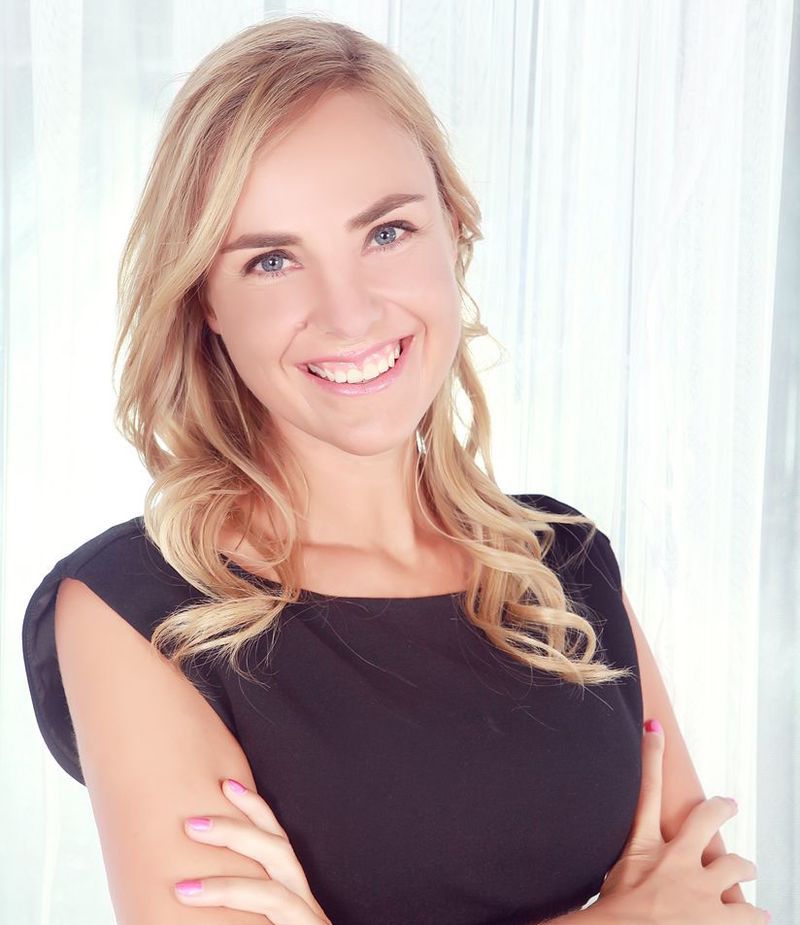
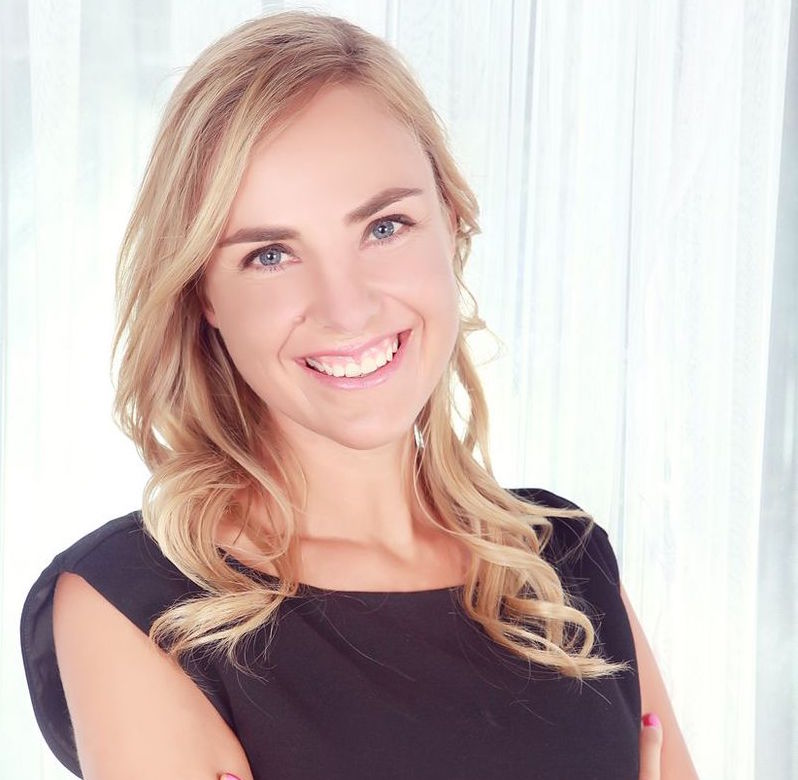
marieme, mina pic crop

diff --git a/_posts/16-2-1-Marieme-jamme.md b/_posts/16-2-1-Marieme-jamme.md
@@ -1,10 +1,9 @@
 ---
 layout: template
 title: Marieme Jamme
-image: Marieme-Jamme.jpeg
+image: Marieme-jamme.jpg
 link: https://en.wikipedia.org/wiki/Mari%C3%A9me_Jamme
 ---
 
 Senegalese-Born Mariéme Jamme is a London-based CEO, blogger, technologist and social entrepreneur. Marieme Jamme is also a regular international speaker, a blogger and the co-founder of Africa Gathering, a global platform that brings together entrepreneurs and experts to exchange ideas about Africa's development—all part of her efforts to keep the African narrative relevant and positive. "We are witnessing great progress in the continent and this needs to be highlighted," she wrote in 2012.
-
 She is currently the CEO of SpotOne Global Solutions. She was referred to as being 'at the forefront of the technology revolution that is slowly transforming Africa' by CNN. She is also well known for helping to organize the annual Apps4Africa competition. Jamme also mentors founders and managers of some of Africa's technology hubs, including HiveColab.
